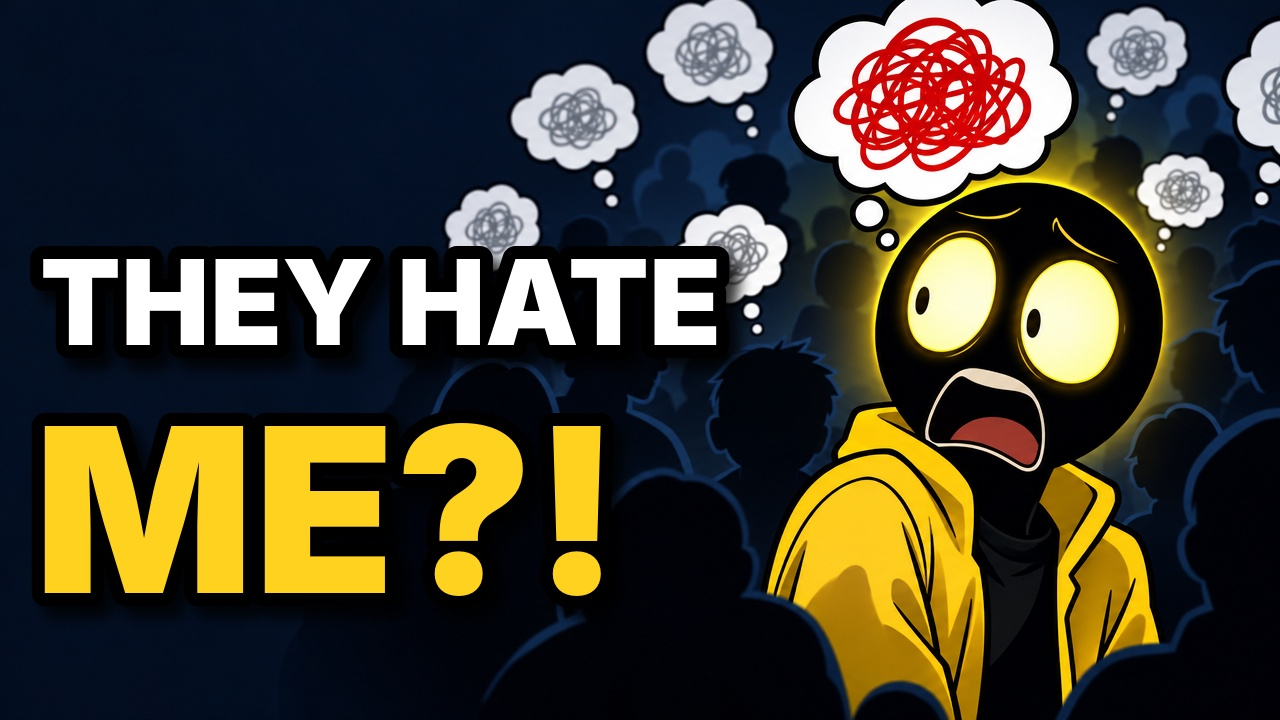
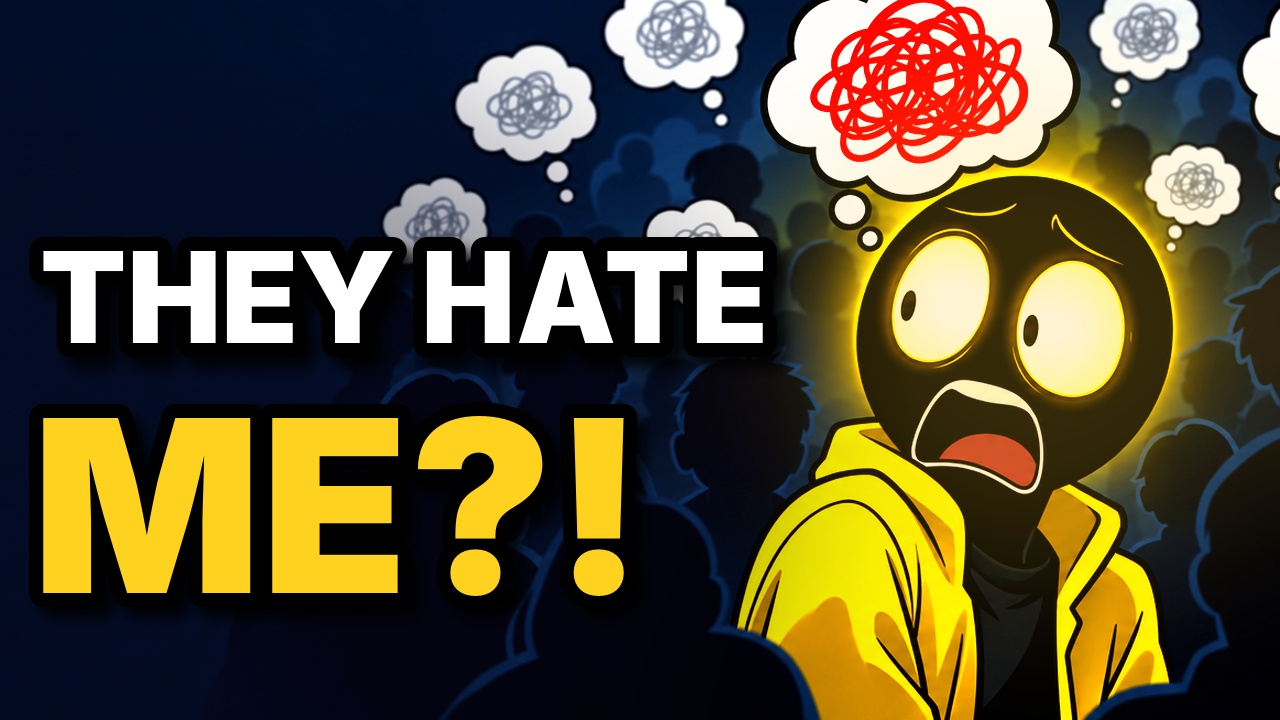
Read-minds: brighter thumbnail A and two-word thumbnail B for Test & Compare
Claude-Session: https://claude.ai/code/session_01RtYrLfjYB6Y3vG9mEeUGYm

diff --git a/pilot/scripts/youtube-upload-read-minds.md b/pilot/scripts/youtube-upload-read-minds.md
@@ -1,6 +1,6 @@
 # Upload package: What If You Could Read Minds?
 
-File: `pilot/out/mind-episode-youtube.mp4` · Thumbnail: `pilot/out/thumb-read-minds.jpg` (pending)
+File: `pilot/out/mind-episode-youtube.mp4` · Thumbnails for Test & Compare: `pilot/out/thumb-read-minds.jpg` (A: THEY HATE ME?!) and `pilot/out/thumb-read-minds-B.jpg` (B: HATE ME?!)
 
 ## When to publish
 Sunday 25 Oct, 6:00 PM IST (4 days after the invisible episode). Upload by 4:00 PM and schedule it.
